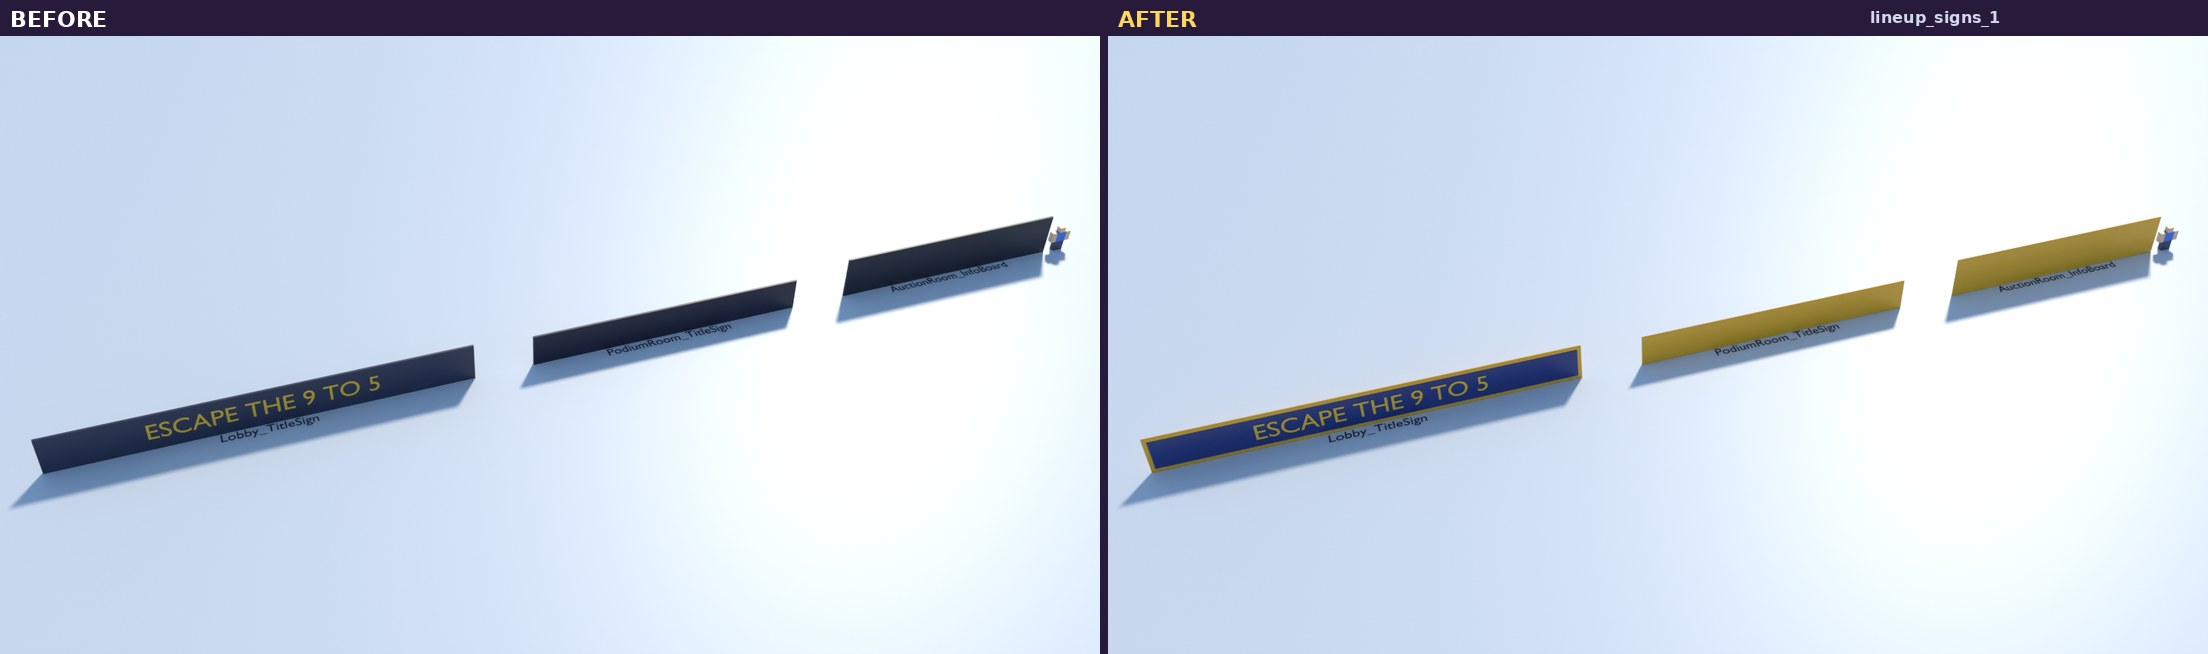
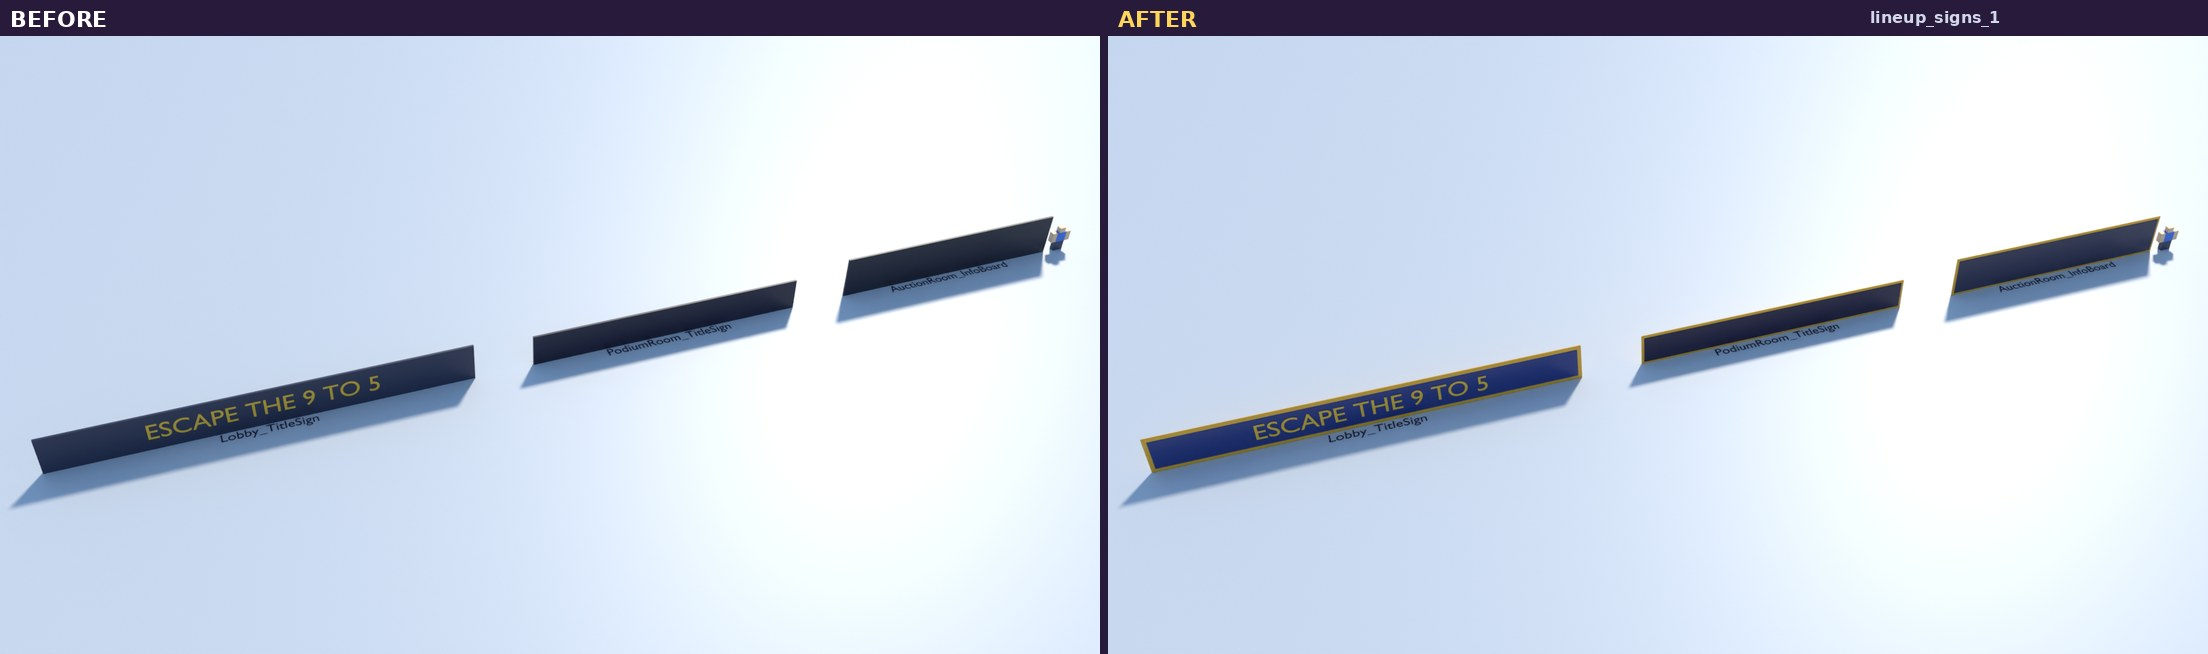
World overhaul: final report, import plan and progress (all phases done)
- sign lineups show the readable side; all comparisons regenerated
- 122 models reviewed and done; z-fight/thin-part check: 0 problems; placements: 35/35 places match

Claude-Session: https://claude.ai/code/session_01Jieur9Bqiay9EDrebX1tpj

Changed region(s): [[0.7188, 0.3364, 1.0, 0.5505]]

diff --git a/world_overhaul/PROGRESS.md b/world_overhaul/PROGRESS.md
@@ -1,11 +1,11 @@
 # Progress
 
 If you (or I after a restart) pick this up: read this file and STYLE_GUIDE.md first.
-Updated: 2026-10-04 23:56
+Updated: 2026-10-04 23:59
 
 ## Current step
 
-Phase 5 - handover: REPORT.md and IMPORT_PLAN.md are generated (tools/write_report.py, tools/write_import_plan.py); final review of the report text, then commit and push. All 122 models are reviewed and done; AFTER renders, lineups, comparisons and contact sheets are in renders/.
+Done. All 125 object types are covered (115 own models + 10 copies; 122 FBX incl. 7 extra pieces), all reviewed. AFTER scene, renders, comparisons, contact sheets, REPORT.md and IMPORT_PLAN.md are final. Open questions for the owner are in REPORT.md (Decisions I need from you).
 
 ## How to continue
 
@@ -24,7 +24,7 @@ alias: 10, done: 115
 - [x] Phase 2 - style guide, palette, kit
 - [x] Phase 3 - model everything
 - [x] Phase 4 - whole world check (AFTER renders)
-- [ ] Phase 5 - handover (REPORT.md, IMPORT_PLAN.md)
+- [x] Phase 5 - handover (REPORT.md, IMPORT_PLAN.md)
 
 ## Models (in modelling order: most visible first)
 

diff --git a/world_overhaul/IMPORT_PLAN.md b/world_overhaul/IMPORT_PLAN.md
@@ -1,6 +1,6 @@
 # Import plan - how to swap the new look into the game (NOT executed)
 
-Written 2026-10-04 23:46. Nothing here has been done: nothing was uploaded, published or changed in `src/`.
+Written 2026-10-04 23:59. Nothing here has been done: nothing was uploaded, published or changed in `src/`.
 
 ## The idea in one paragraph
 

diff --git a/world_overhaul/REPORT.md b/world_overhaul/REPORT.md
@@ -1,6 +1,6 @@
 # Rags to Riches - new look for the whole world (report)
 
-Written 2026-10-04 23:56. Start here; everything else is linked from this page.
+Written 2026-10-04 23:59. Start here; everything else is linked from this page.
 
 ## In short
 
